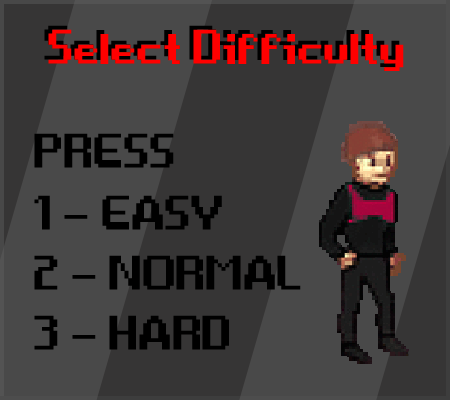
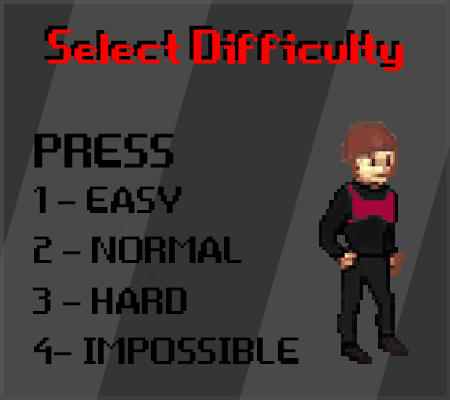
P2: Removed ability to move Left with mic, and removed jump from impossible level, gotta add function that lets user jump with mic instead

Changed region(s): [[0.0622, 0.45, 0.6844, 0.93]]

diff --git a/projects/project2/prototype/js/script.js b/projects/project2/prototype/js/script.js
@@ -2,14 +2,12 @@
 Project 2: The Stealer Continued~
 Paola Petitti
 
-Things to fix/Add:
-- Change the diamond to the door
-- put all this code into levelOne.js (and make it work)
-- create a level 2 that connects to the door of levelOne
-
-You must jump over the metal bars that are coming out of the floor
-to make it to the end of the level and steal the diamond heart. The player
+You must must avoid all the obstacles in each of the three levels and make
+it to the end of the third level in order to steal the diamond heart. The player
 can jump onto the boxes however you can't jump when your on a box.
+
+Also note that in my code Difficulty =/= The level, the difficulty determines
+how fast/frequent the obstacles you see in each of the 3 stages are.
 
 The idea/concept for this is heavily inspired by
 The Boyz - The Stealer music video
@@ -257,22 +255,7 @@ function handleKey() {
     }
   }
   else if (difficulty === 4){
-    if (levelMic >= 0.5 && levelMic < 0.7) {
-      if (stealer.canMoveLeft()) {
-        stealer.moveLeft();
-        display(robberWalkImg, stealer.size2 + padding, stealer.size);
-      }
-      else {
-        if (level == 1) {
-          lvlOne.moveBgRight();
-        } else if (level == 2) {
-          lvlTwo.moveBgRight();
-        } else if (level == 3) {
-          lvlThree.moveBgRight();
-        }
-        display(robberWalkImg, stealer.size2 + padding, stealer.size);
-      }
-    } else if (levelMic >= 0.05 && levelMic < 0.5) {
+    if (levelMic >= 0.05 && levelMic < 0.5) {
       if (stealer.canMoveRight()) {
         stealer.moveRight();
         display(robberWalkImg, stealer.size2 + padding, stealer.size);
@@ -298,9 +281,8 @@ function handleKey() {
 function keyPressed() {
   let x = lvlOne.bgLeft + 800;
   let y = 622;
-  if (keyCode === UP_ARROW) {
-    stealer.jump();
-  } else if (keyCode === ENTER && state == `start`) {
+
+  if (keyCode === ENTER && state == `start`) {
     state = `diffSelect`;
   } else if (state == `diffSelect` && key == "1") {
     difficulty = 1;
@@ -319,6 +301,13 @@ function keyPressed() {
     difficulty = 4;
     state = `simulation`;
     gameMusic.play();
+  }
+
+// Making the jump key only available for the first 3 difficulties.
+  if(difficulty == 1 || difficulty == 2 || difficulty == 3){
+    if (keyCode === UP_ARROW) {
+      stealer.jump();
+    }
   }
 }
 
